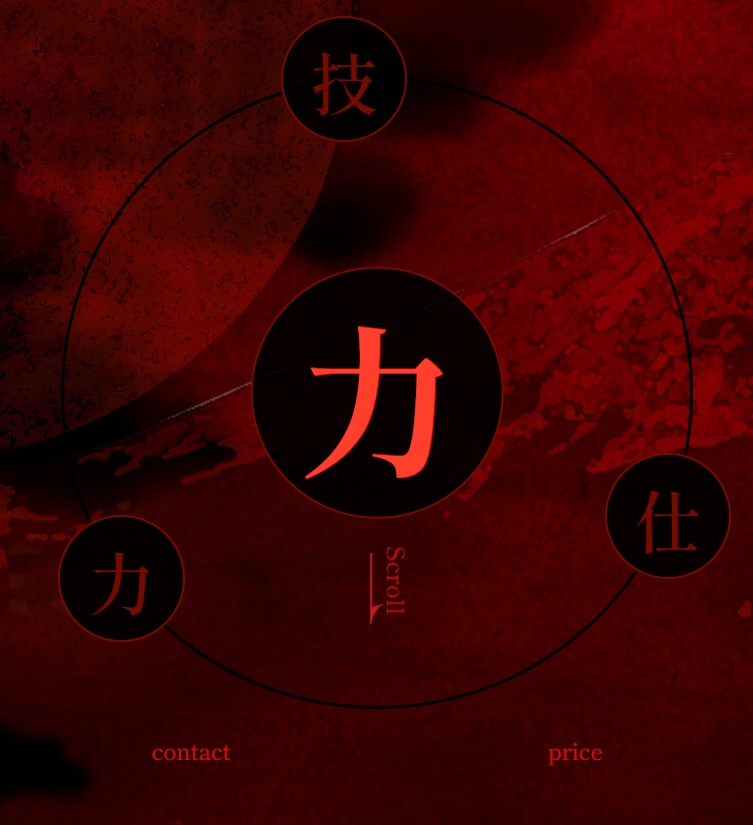
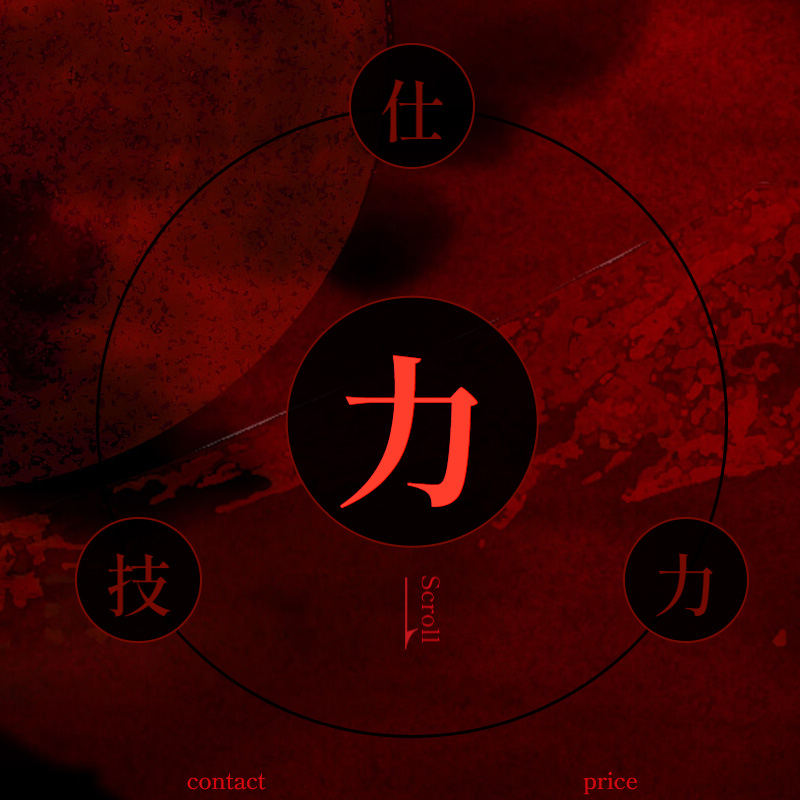
画像関係

diff --git a/dist/bundle.js b/dist/bundle.js
@@ -15,7 +15,7 @@
   \************************/
 /***/ (function() {
 
-eval("let angle1 = 0;\r\n\r\nconst circumference = (hhh) => {\r\n    let moveElement = document.querySelector('.p-area__front-menu--lv1');\r\n    let radius = (hhh * 0.7) / 2;\r\n    let centerX = radius - ((hhh*0.14)/2);\r\n    let centerY = radius - ((hhh*0.14)/2);\r\n    let moveX = Math.cos(Math.PI / 180 * angle1) * radius + centerX;\r\n    let moveY = Math.sin(Math.PI / 180 * angle1) * radius + centerY;\r\n    moveElement.style.left = moveX + \"px\";\r\n    moveElement.style.top = moveY + \"px\";\r\n    if (angle1 < 360) {\r\n        angle1++;\r\n    } else {\r\n        angle1 = 0;\r\n    }\r\n}\r\n\r\nlet angle2 = 150;\r\nconst circumference2 = (hhh) => {\r\n    let moveElement = document.querySelector('.p-area__front-menu--lv2');\r\n    let radius = (hhh * 0.7) / 2;\r\n    let centerX = radius - ((hhh*0.14)/2);\r\n    let centerY = radius - ((hhh*0.14)/2);\r\n    let moveX = Math.cos(Math.PI / 180 * angle2) * radius + centerX;\r\n    let moveY = Math.sin(Math.PI / 180 * angle2) * radius + centerY;\r\n    moveElement.style.left = moveX + \"px\";\r\n    moveElement.style.top = moveY + \"px\";\r\n    if (angle2 < 360) {\r\n        angle2++;\r\n    } else {\r\n        angle2 = 0;\r\n    }\r\n}\r\n\r\nlet angle3 = 270;\r\nconst circumference3= (hhh) => {\r\n    let moveElement = document.querySelector('.p-area__front-menu--lv3');\r\n    //0.7は円の大きさ(70vh)→円の半径\r\n    let radius = (hhh * 0.7) / 2;\r\n    //0.14はmenuの円の大きさ(14vh)\r\n    let centerX = radius - ((hhh*0.14)/2);\r\n    console.log(centerX);\r\n    //console.log(hhh);\r\n    let centerY = radius - ((hhh*0.14)/2);\r\n    let moveX = Math.cos(Math.PI / 180 * angle3) * radius + centerX;\r\n    let moveY = Math.sin(Math.PI / 180 * angle3) * radius + centerY;\r\n    moveElement.style.left = moveX + \"px\";\r\n    moveElement.style.top = moveY + \"px\";\r\n    if (angle3 < 360) {\r\n        angle3++;\r\n    } else {\r\n        angle3 = 0;\r\n    }\r\n}\r\n\r\n\r\n\r\n\r\nsetInterval(() => {\r\n    let window_h = window.innerHeight;\r\n    circumference(window_h);\r\n    circumference2(window_h);\r\n    circumference3(window_h);\r\n},1000);\r\n\r\n\r\n// const screenSize = (w, h) => {\r\n//    const container = document.querySelector(\"#l-container\");\r\n//    container.style.width = w + \"px\";\r\n//    container.style.height = h + \"px\";\r\n//    return {\r\n//        a: w,\r\n//        b: h\r\n//    };\r\n// };\r\n\r\n//window.addEventListener('load', screenSize);\r\n\r\n\r\n\r\n\n\n//# sourceURL=webpack://portfolio-1/./script/main.js?");
+eval("let angle1 = 30;\r\n\r\nconst circumference = (hhh) => {\r\n    let moveElement = document.querySelector('.p-area__front-menu--lv1');\r\n    let radius = (hhh * 0.7) / 2;\r\n    let centerX = radius - ((hhh*0.14)/2);\r\n    let centerY = radius - ((hhh*0.14)/2);\r\n    let moveX = Math.cos(Math.PI / 180 * angle1) * radius + centerX;\r\n    let moveY = Math.sin(Math.PI / 180 * angle1) * radius + centerY;\r\n    moveElement.style.left = moveX + \"px\";\r\n    moveElement.style.top = moveY + \"px\";\r\n    if (angle1 < 360) {\r\n        angle1++;\r\n    } else {\r\n        angle1 = 0;\r\n    }\r\n}\r\n\r\nlet angle2 = 150;\r\nconst circumference2 = (hhh) => {\r\n    let moveElement = document.querySelector('.p-area__front-menu--lv2');\r\n    let radius = (hhh * 0.7) / 2;\r\n    let centerX = radius - ((hhh*0.14)/2);\r\n    let centerY = radius - ((hhh*0.14)/2);\r\n    let moveX = Math.cos(Math.PI / 180 * angle2) * radius + centerX;\r\n    let moveY = Math.sin(Math.PI / 180 * angle2) * radius + centerY;\r\n    moveElement.style.left = moveX + \"px\";\r\n    moveElement.style.top = moveY + \"px\";\r\n    if (angle2 < 360) {\r\n        angle2++;\r\n    } else {\r\n        angle2 = 0;\r\n    }\r\n}\r\n\r\nlet angle3 = 270;\r\nconst circumference3= (hhh) => {\r\n    let moveElement = document.querySelector('.p-area__front-menu--lv3');\r\n    //0.7は円の大きさ(70vh)→円の半径\r\n    let radius = (hhh * 0.7) / 2;\r\n    //0.14はmenuの円の大きさ(14vh)\r\n    let centerX = radius - ((hhh*0.14)/2);\r\n    console.log(centerX);\r\n    //console.log(hhh);\r\n    let centerY = radius - ((hhh*0.14)/2);\r\n    let moveX = Math.cos(Math.PI / 180 * angle3) * radius + centerX;\r\n    let moveY = Math.sin(Math.PI / 180 * angle3) * radius + centerY;\r\n    moveElement.style.left = moveX + \"px\";\r\n    moveElement.style.top = moveY + \"px\";\r\n    if (angle3 < 360) {\r\n        angle3++;\r\n    } else {\r\n        angle3 = 0;\r\n    }\r\n}\r\n\r\n\r\n\r\ndocument.addEventListener(\"DOMContentLoaded\",function(){\r\n   let window_h = window.innerHeight;\r\n    circumference(window_h);\r\n    circumference2(window_h);\r\n    circumference3(window_h);\r\n});\r\n\r\n\r\n// setInterval(() => {\r\n//     let window_h = window.innerHeight;\r\n//     circumference(window_h);\r\n//     circumference2(window_h);\r\n//     circumference3(window_h);\r\n// },1000);\r\n\r\n\r\n// const screenSize = (w, h) => {\r\n//    const container = document.querySelector(\"#l-container\");\r\n//    container.style.width = w + \"px\";\r\n//    container.style.height = h + \"px\";\r\n//    return {\r\n//        a: w,\r\n//        b: h\r\n//    };\r\n// };\r\n\r\n//window.addEventListener('load', screenSize);\r\n\r\n\r\n\r\n\n\n//# sourceURL=webpack://portfolio-1/./script/main.js?");
 
 /***/ })
 

diff --git a/html/page3.html b/html/page3.html
@@ -53,19 +53,25 @@
                      <!-- Slides -->
                      <div class="swiper-slide">
                         <div class="p-wrapper__slide">
-                           <img class="p-wrapper__slide--img c-img__swiper" src="../images/work/reise-tech.jpg" alt="代用">
+                           <div class="p-wrapper__slide--img">
+                              <img class="c-img__swiper" src="../images/work/reise-tech.jpg" alt="代用">
+                           </div>
                            <p class="p-wrapper__slide--title c-font__swiper">RaiseTech模写</p>
                         </div>
                      </div>
                      <div class="swiper-slide">
                         <div class="p-wrapper__slide">
-                           <img class="p-wrapper__slide--img c-img__swiper" src="../images/work/hamburger.jpg" alt="代用">
+                           <div class="p-wrapper__slide--img">
+                              <img class="c-img__swiper" src="../images/work/hamburger.jpg" alt="代用">
+                           </div>
                            <p class="p-wrapper__slide--title c-font__swiper">ハンバーガーサイト</p>
                         </div>
                      </div>
                      <div class="swiper-slide">
                         <div class="p-wrapper__slide">
-                           <img class="p-wrapper__slide--img c-img__swiper" src="../images/work/portfolio.jpg" alt="代用">
+                           <div class="p-wrapper__slide--img">
+                              <img class="c-img__swiper" src="../images/work/portfolio.jpg" alt="代用">
+                           </div>
                            <p class="p-wrapper__slide--title c-font__swiper">ポートフォリオ</p>
                         </div>
                      </div>

diff --git a/script/main.js b/script/main.js
@@ -1,4 +1,4 @@
-let angle1 = 0;
+let angle1 = 30;
 
 const circumference = (hhh) => {
     let moveElement = document.querySelector('.p-area__front-menu--lv1');
@@ -56,13 +56,20 @@ const circumference3= (hhh) => {
 
 
 
-
-setInterval(() => {
-    let window_h = window.innerHeight;
+document.addEventListener("DOMContentLoaded",function(){
+   let window_h = window.innerHeight;
     circumference(window_h);
     circumference2(window_h);
     circumference3(window_h);
-},1000);
+});
+
+
+// setInterval(() => {
+//     let window_h = window.innerHeight;
+//     circumference(window_h);
+//     circumference2(window_h);
+//     circumference3(window_h);
+// },1000);
 
 
 // const screenSize = (w, h) => {

diff --git a/css/style.css b/css/style.css
@@ -257,8 +257,10 @@ body {
   width: 14px;
 }
 .c-img__swiper {
-  width: 400px;
-  height: 400px;
+  -o-object-fit: contain;
+     object-fit: contain;
+  width: auto;
+  height: 100%;
   border-radius: 50%;
 }
 
@@ -523,6 +525,8 @@ body {
 }
 .p-wrapper__slide--img {
   margin: auto;
+  width: 400px;
+  height: 400px;
 }
 .p-wrapper__slide--title {
   width: 300px;

diff --git a/scss/object/project/_wrapper.scss b/scss/object/project/_wrapper.scss
@@ -46,7 +46,12 @@
       justify-content: center;
       align-items    : center;
       position       : relative;
-      &--img {margin: auto;}
+      &--img {
+         margin: auto;
+         width        : 400px;
+         height       : 400px;
+         
+      }
       &--title {
          width    : 300px;
          position : absolute;

diff --git a/scss/object/component/_img.scss b/scss/object/component/_img.scss
@@ -6,8 +6,9 @@
       width : 14px;
    }
    &__swiper {
-      width        : 400px;
-      height       : 400px;
+      object-fit   : contain;
+      width        : auto;
+      height       : 100%;
       border-radius: 50%;
    }
 }
